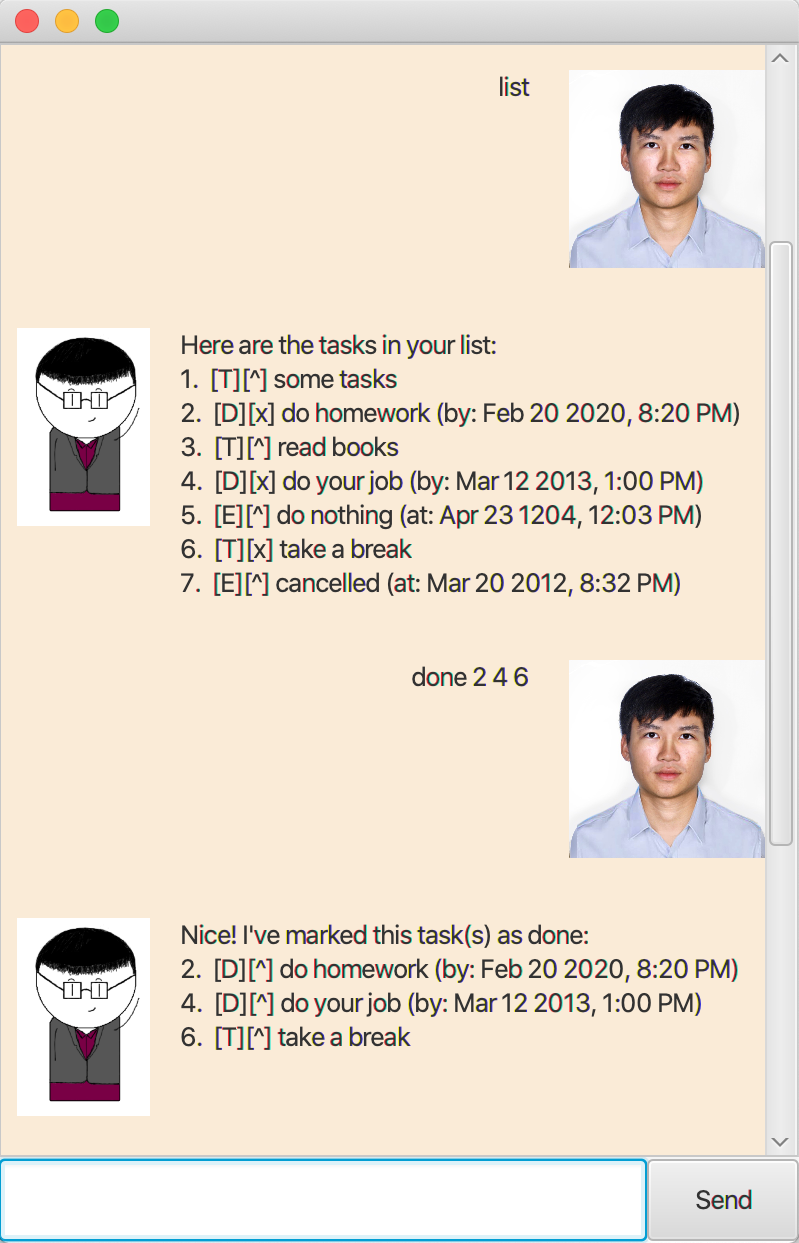
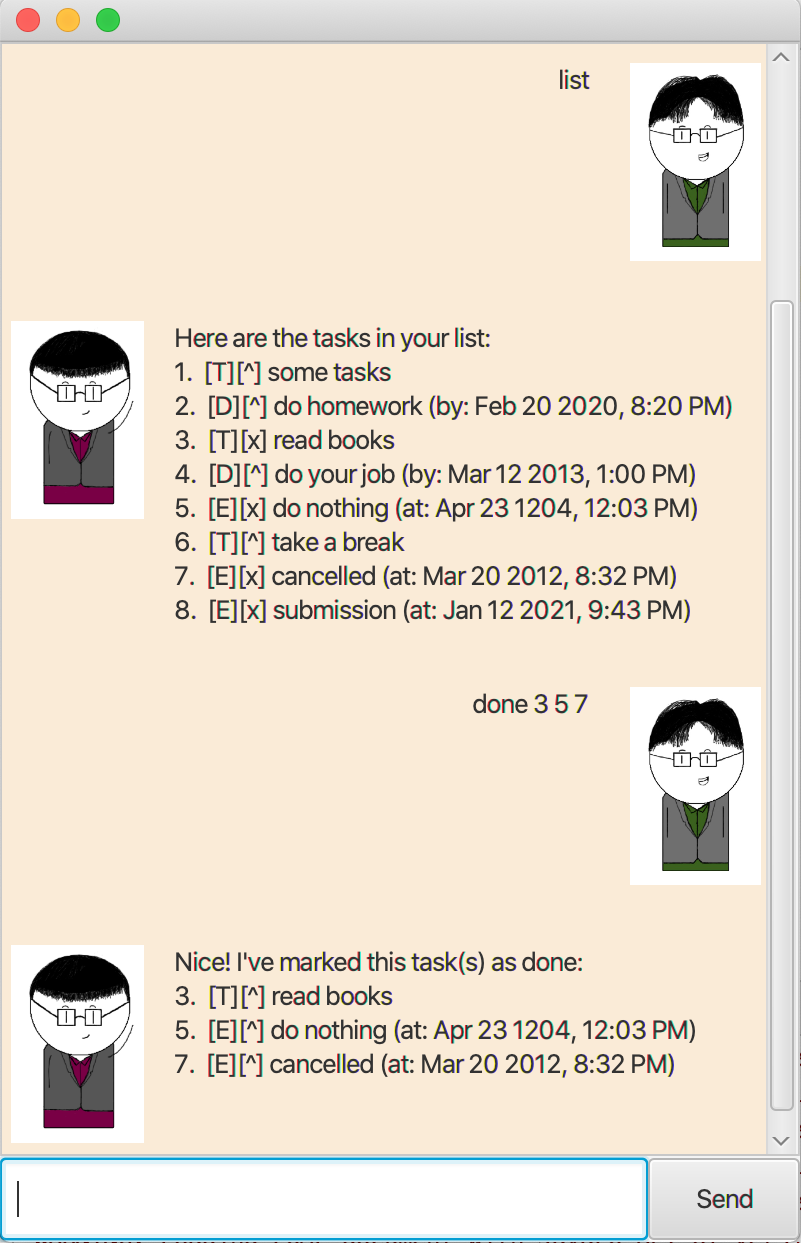
Update README.md

Changed region(s): [[0.0, 0.0, 1.0, 1.0], [0.6308, 0.0611, 0.6608, 0.0917], [0.1202, 0.0, 0.1502, 0.0306]]

diff --git a/docs/README.md b/docs/README.md
@@ -1,5 +1,3 @@
-# User Guide
-
 ## Navigation
 1. [Introduction](#introduction)
 
@@ -15,17 +13,19 @@
 
 4. [Usage](#usage)
 
-  4.1 [`bye`](#bye)
++ 4.1 [`bye`](#bye)
   
-  4.2 [`todo`](#todo)
++ 4.2 [`todo`](#todo)
   
-  4.3 [`deadline`](#deadline)
++ 4.3 [`deadline`](#deadline)
   
-  4.4 [`event`](#event)
++ 4.4 [`event`](#event)
   
-  4.5 [`list`](#list)
++ 4.5 [`list`](#list)
   
-  4.6 [`find`](#find)
++ 4.6 [`find`](#find)
+
++ 4.7 [`done`](#done)
 
 ## Introduction
 
@@ -35,28 +35,33 @@ track of their tasks. Generally, user can add, mark
 the task as complete, delete and find a combination of 
 tasks. 
 
+![](Ui.png)
+
 ## Instructions
-  1. Download the jar file [here].
+  1. Download the jar file [here](#build/libs/duke-0.1.3.jar).
   2. Open the jar file to launch the app.
   3. Type in the text box your command or instruction. Hit `Enter` or the `Send` button to execute.
+  4. See Section [4. Usage] for different commands.
 
 ## Features 
 
 ### Overview
 
-The app currently processes 3 types of user tasks: **Todo**, **Deadline** and **Event**. Each of these tasks will require a different input from the user to be recorded and kept track of their completion. 
+> The app currently processes 3 types of user tasks: **Todo**, **Deadline** and **Event**. Each of these tasks will require a different input from the user to be recorded and kept track of their completion. 
+
+
 
 ### Task List
 
-- All the tasks are stored in the list of tasks according to the order they were added. Each task is mapped to an index which corresponds to its position in the list. User can thus refer to a specific task or multiple tasks based on their indexes. There is also a "list" command which allows user to check the ordering of the tasks.
+> All the tasks are stored in the list of tasks according to the order they were added. Each task is mapped to an index which corresponds to its position in the list. User can thus refer to a specific task or multiple tasks based on their indexes. There is also a "list" command which allows user to check the ordering of the tasks.
 
 ### Storage
 
-- The tasks are stored to and loaded from "/data/duke.txt". When the application starts, data is loaded from "/data/duke.txt" into the task list to be displayed or manipulated. After each user command, if there is any modification to any task or the task list, the data in "/data/duke.txt" will be overwritten with the current state of the task list.
+> The tasks are stored to and loaded from "/data/duke.txt". When the application starts, data is loaded from "/data/duke.txt" into the task list to be displayed or manipulated. After each user command, if there is any modification to any task or the task list, the data in "/data/duke.txt" will be overwritten with the current state of the task list.
 
 ## Usage
 
-### `bye`
+### 4.1 `bye`
 
 Exits from the application.
 
@@ -66,9 +71,9 @@ Example of usage:
 
 Expected outcome:
 
-``
+`Bye. Hope to see you again soon!`
 
-### `todo` [TaskAction]
+### 4.2 `todo [TaskAction]`
  
 Adds a todo task into the list.
 
@@ -78,11 +83,13 @@ Example of usage:
 
 Expected outcome:
 
-`Got it. I've added this task:
- [T][x] wake up
-Now you have 1 tasks in the list.`
+```
+Got it. I've added this task: 
+    [T][x] wake up
+Now you have 1 tasks in the list.
+```
 
-### `deadline` [TaskAction] /by [Date Time]
+### 4.3 `deadline [TaskAction] /by [Date Time]`
 
 Adds a task representing a deadline to the list with a deadline specified
 
@@ -92,11 +99,13 @@ Example of usage:
 
 Expected outcome:
 
-`Got it. I've added this task:
- [D][x] return book (by: Feb 20 2020 08:20PM)
-Now you have 2 tasks in the list.`
+```
+Got it. I've added this task:
+ [D][x] return book (by: Feb 20 2020, 8:20PM)
+Now you have 2 tasks in the list.
+```
 
-### `event` [TaskAction] /at [Date Time]
+### 4.4 `event [TaskAction] /at [Date Time]`
 
 Adds a task representing an event to the list with the time specified
 
@@ -106,11 +115,13 @@ Example of usage:
 
 Expected outcome:
 
-`Got it. I've added this task:
- [E][x] book sharing (at: Feb 20 2020 08:40PM)
-Now you have 3 tasks in the list.`
+```
+Got it. I've added this task:
+ [E][x] book sharing (at: Feb 20 2020, 8:40PM)
+Now you have 3 tasks in the list.
+```
 
-### `list`
+### 4.5 `list`
 
 Prints all the tasks in the list with their indexes.
 
@@ -120,12 +131,14 @@ Example of usage:
 
 Expected outcome:
 
-`Here are the tasks in your list:
+```
+Here are the tasks in your list:
 1. [T][x] wake up
-2. [D][x] return book (by: Feb 20 2020 08:20PM)
-3. [E][x] book sharing (at: Feb 20 2020 08:40PM)`
+2. [D][x] return book (by: Feb 20 2020, 8:20PM)
+3. [E][x] book sharing (at: Feb 20 2020, 8:40PM)
+```
 
-### `find` [TaskAction]
+### 4.6 `find [TaskAction]` 
 
 Finds all tasks whose TaskAction contains the keyword specified.
 
@@ -135,6 +148,25 @@ Example of usage:
 
 Expected outcome:
 
-`Here are the matching tasks in your list:
-1. [D][x] return book (by: Feb 20 2020 08:20PM)
-2. [T][x] borrow book (at: Feb 20 2020 08:40PM)`
+```
+Here are the matching tasks in your list:
+1. [D][x] return book (by: Feb 20 2020, 8:20PM)
+2. [T][x] borrow book (at: Feb 20 2020, 8:40PM)`
+```
+
+### 4.7 `done [Index]` 
+
+Mark indexed tasks as done.
+
+Example of usage:
+
+`done 1 2`
+
+Expected outcome:
+
+```
+Nice! I've marked this task(s) as done:
+1. [D][^] return book (by: Feb 20 2020, 8:20PM)
+2. [T][^] borrow book (at: Feb 20 2020, 8:40PM)`
+```
+
